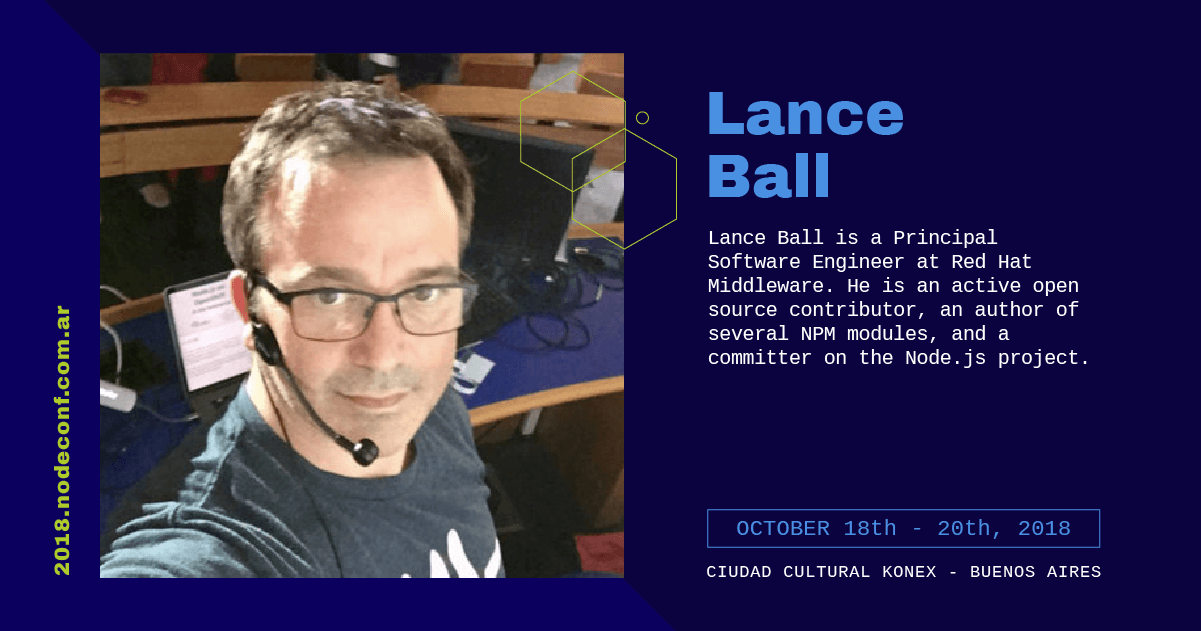
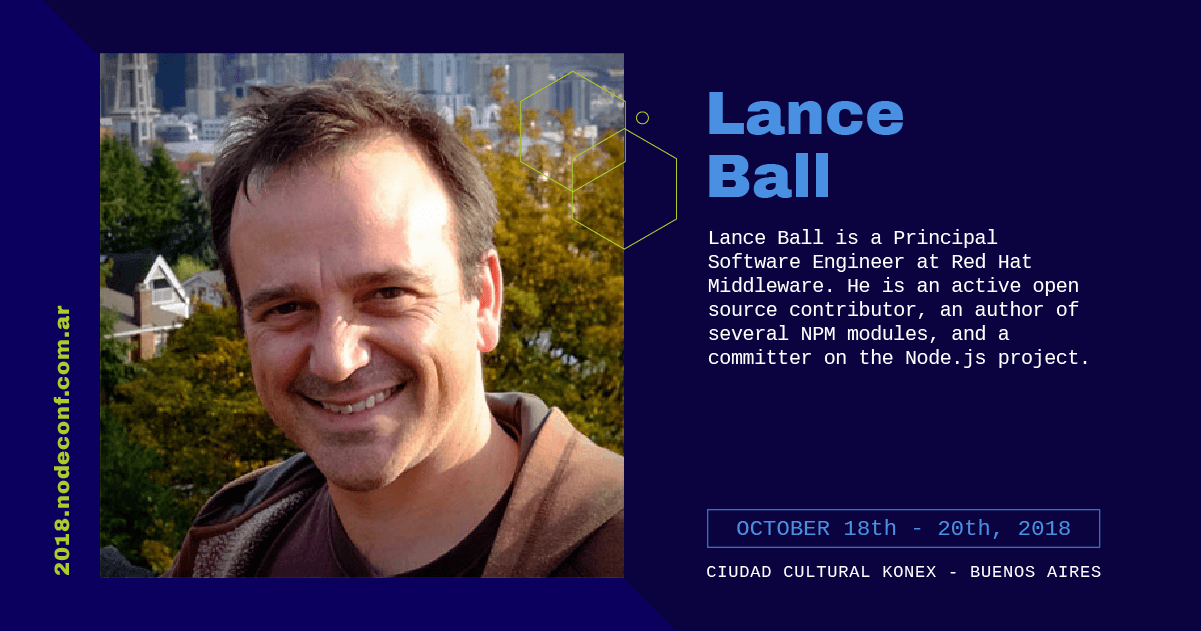
change Lance Photo
+ change diversity ticket text button

diff --git a/index.html b/index.html
@@ -255,7 +255,7 @@
         <p>Thanks to other people's support, we have the possibility to give free scholarships to people from
           underrepresented groups in tech.</p>
         <a href="https://docs.google.com/forms/d/12yjDaPPp6fxouf9O99T2HqsD7J_wMW_vn35_pVkquxY/viewform?edit_requested=true" class="btn btn-blue" target="_blank" rel="noopener">
-          <p class="flex items-center ma0"><span class="ticket-d-icon"></span> <span></span>diversity tickets</span></p>
+          <p class="flex items-center ma0"><span class="ticket-d-icon"></span> <span></span>apply</span></p>
         </a>
       </div> 
     </div>
@@ -384,6 +384,11 @@
           <li class="mh2-ns mv2 db center">
             <a href="https://jampp.com/" target="_blank" rel="noopener">
               <img data-aload="assets/images/sponsor-jampp.png" alt="jampp">
+            </a>
+          </li>
+          <li class="mh2-ns mv2 db center">
+            <a href="https://geutstudio.com" target="_blank" rel="noopener">
+              <img data-aload="assets/images/sponsor-geut.png" alt="Geut">
             </a>
           </li>
 
